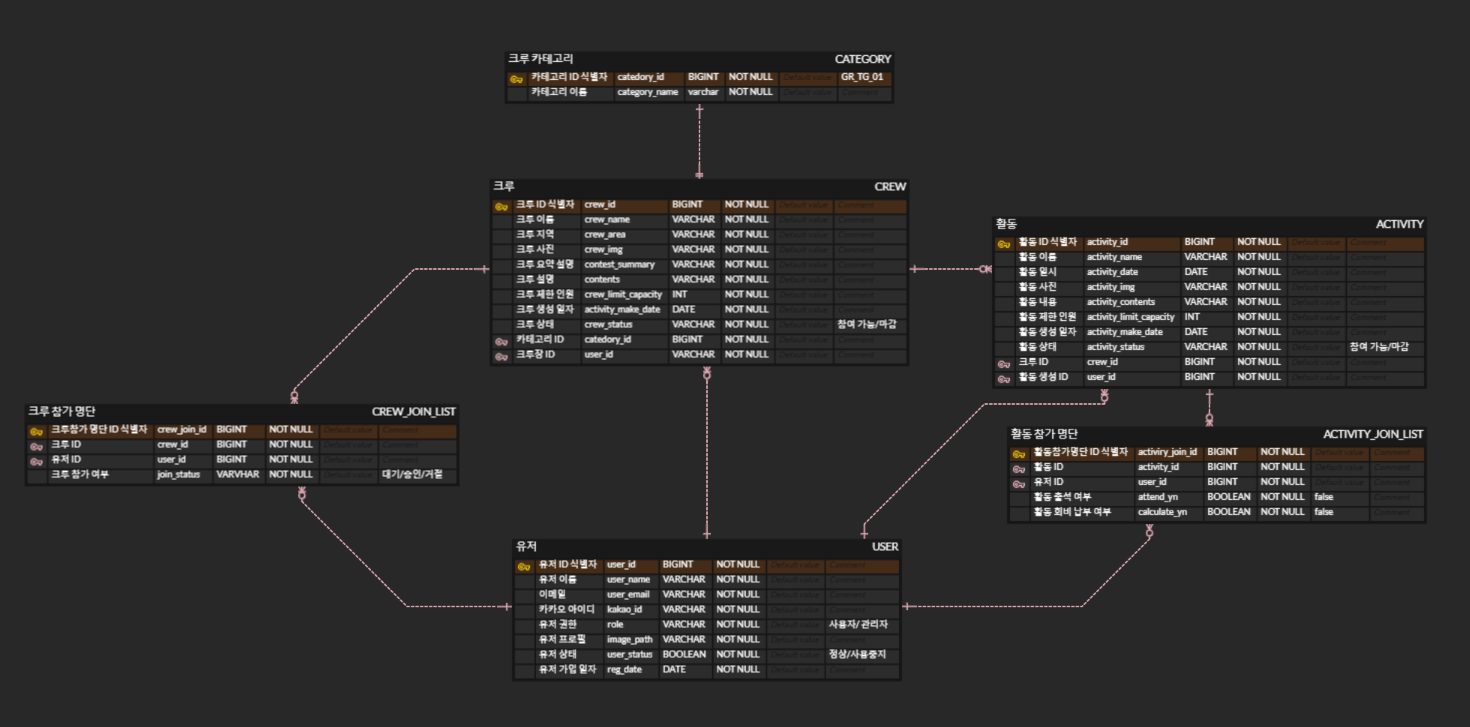
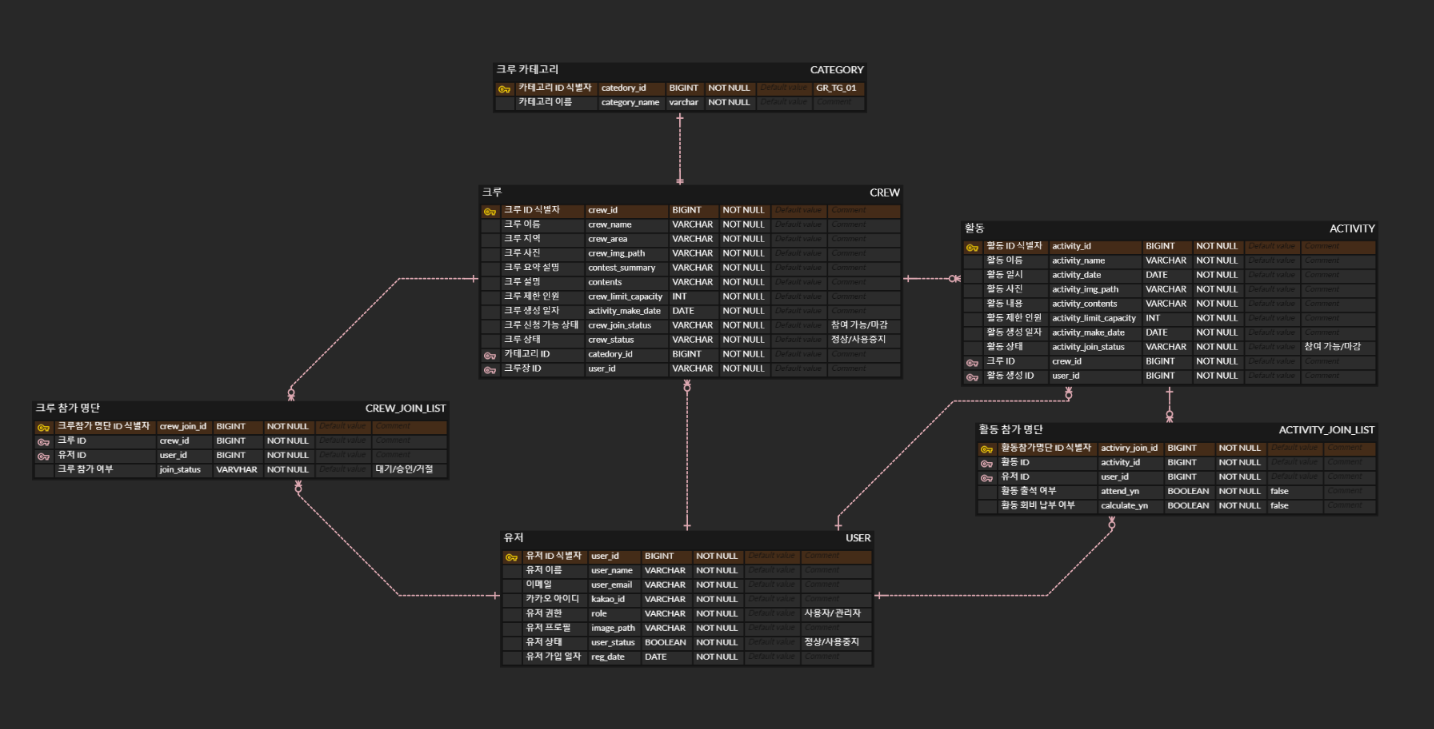
README.md & erd.png commit 2

diff --git a/README.md b/README.md
@@ -43,6 +43,7 @@
             - 크루 조회, 생성
             - 카테고리 별 크루 조회
             - 크루 별 크루원 조회
+            - 크루 참여 가능 상태 (참여 가능/마감)
         - #### [크루장]
             - 크루 수정, 삭제
             - 유저 별 크루 참여 상태 변경 (대기/승인/거절)
@@ -53,6 +54,7 @@
             - 크루 내 활동 조회
             - 활동 별 참가 크루원 조회
             - 크루원 별 참가 활동 조회
+            - 활동 참여 가능 상태 (참여 가능/마감)
         - #### [크루장]
             - 크루 내 활동 생성/수정/삭제
             - 활동 참여 출석 관리
